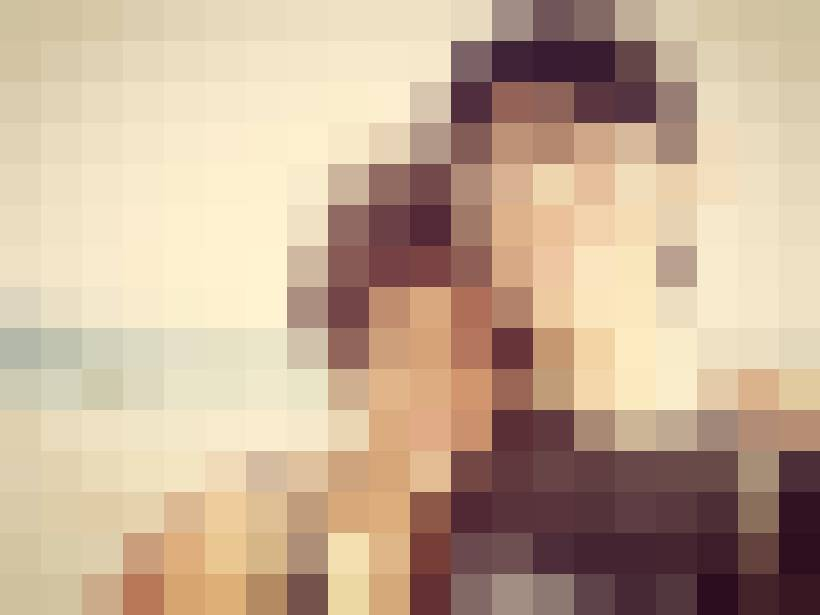
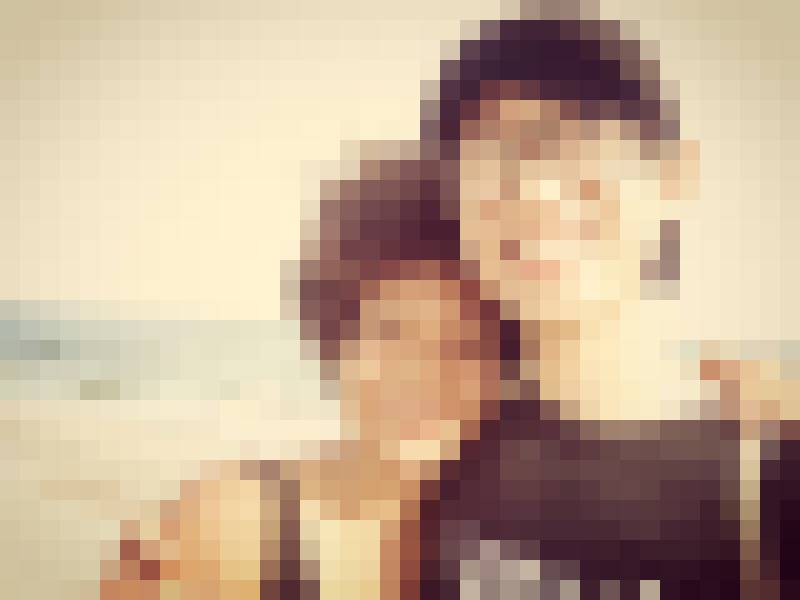
improved responsiveness & changed header img

diff --git a/stylesheets/main.css b/stylesheets/main.css
@@ -63,13 +63,13 @@ a {
   display: inline;
   height: 30px;
   vertical-align: top;
-  margin-top: -10px;
-  margin-left: -5px;
+  margin-top: -3.5px;
 }
 
 #main_nav_bar ul li {
   list-style: none;
   float: right;
+  margin-top: -10px;
   -webkit-transition: .75s; /* For Safari 3.1 to 6.0 */
   transition: .75s;
 }
@@ -81,11 +81,11 @@ a {
 #main_nav_bar a {
   text-decoration: none;
   color: #555;
-  font-size: 17.5px;
+  font-size: 20px;
   margin-left: 15px;
   margin-right: 15px;
   float: right;
-  font-family: 'Josefin Sans', sans-serif;
+  font-family: 'Source Sans Pro', sans-serif;
   text-transform: uppercase;
   -webkit-transition: .75s; /* For Safari 3.1 to 6.0 */
   transition: .75s;
@@ -118,12 +118,12 @@ header {
 
 #headline {
  /*background: url(http://i.imgur.com/L41gisR.jpg);*/
-  background: url(../imgs/alex&rosa_2.jpg);
+  background: url(../imgs/alex&rosa.jpg);
   background-position: 50% 50%;
   border-bottom: 1px solid #F0F0F0;
   background-size: cover;
-  padding-top: 225px;
-  padding-bottom: 110px;
+  padding-top: 275px;
+  padding-bottom: 175px;
 }
 
 #rosa_pergams a {
@@ -143,7 +143,7 @@ header {
   font-size: 75px;
   border: 10px solid #fff;
   padding: 75px 10px 60px 10px;
-  font-family: 'Josefin Sans', sans-serif;
+  font-family: 'Source Sans Pro', sans-serif;
 }
 
 /****************************************************************/
@@ -170,7 +170,7 @@ footer {
   text-align: center;
   color: #666;
   font-size: 15px;
-  font-family: 'Josefin Sans', sans-serif;
+  font-family: 'Source Sans Pro', sans-serif;
 }
 
 .main_link_img {
@@ -254,8 +254,7 @@ footer {
 }
 
 #new_tagline {
-  font-family: 'Josefin Sans', sans-serif;
-  text-transform: uppercase;
+  font-family: 'Source Sans Pro', sans-serif;
 }
 
 .archive_info {
@@ -306,22 +305,19 @@ footer {
 /* TAGLINE */
 
 #tagline {
-  font-family: 'Josefin Sans', sans-serif;
-  margin: 75px 125px 25px 125px;
-  text-transform: uppercase;
+  font-family: 'Source Sans Pro', sans-serif;
+  margin: 50px 125px 15px 125px;
   text-align: center;
 }
 
 #tagline_1 {
-  font-size: 50px;
-  padding-bottom: 15px;
+  font-size: 60px;
   color: #777;
 }
 
 #tagline_2 {
-  font-size: 30px;
+  font-size: 40px;
   color: #777;
-
 }
 
 #content {
@@ -655,7 +651,7 @@ pre {
     font-size: 50px;
     border: 5px solid #fff;
     padding: 50px 5px 45px 5px;
-    font-family: 'Josefin Sans', sans-serif;
+    font-family: 'Source Sans Pro', sans-serif;
   }
   .archive_stuff {
     width: 100%;

diff --git a/about.html b/about.html
@@ -6,8 +6,9 @@
       <LINK rel="stylesheet" href="stylesheets/main.css" type="text/css">
       <link rel="shortcut icon" href="favicon.ico">
       <link href='http://fonts.googleapis.com/css?family=Josefin+Sans:100,300,400' rel='stylesheet' type='text/css'>
-      <link href='http://fonts.googleapis.com/css?family=PT+Sans+Narrow' rel='stylesheet' type='text/css'>
+      <link href='http://fonts.googleapis.com/css?family=PT+Sans+Narrow:400,700' rel='stylesheet' type='text/css'>
       <link href='http://fonts.googleapis.com/css?family=Amatic+SC:700' rel='stylesheet' type='text/css'>
+      <link href='http://fonts.googleapis.com/css?family=Source+Sans+Pro:300' rel='stylesheet' type='text/css'>
     </head>
 
     <body>

diff --git a/index.html b/index.html
@@ -8,6 +8,7 @@
       <link href='http://fonts.googleapis.com/css?family=Josefin+Sans:100,300,400' rel='stylesheet' type='text/css'>
       <link href='http://fonts.googleapis.com/css?family=PT+Sans+Narrow:400,700' rel='stylesheet' type='text/css'>
       <link href='http://fonts.googleapis.com/css?family=Amatic+SC:700' rel='stylesheet' type='text/css'>
+      <link href='http://fonts.googleapis.com/css?family=Source+Sans+Pro:300' rel='stylesheet' type='text/css'>
     </head>
 
     <body>
